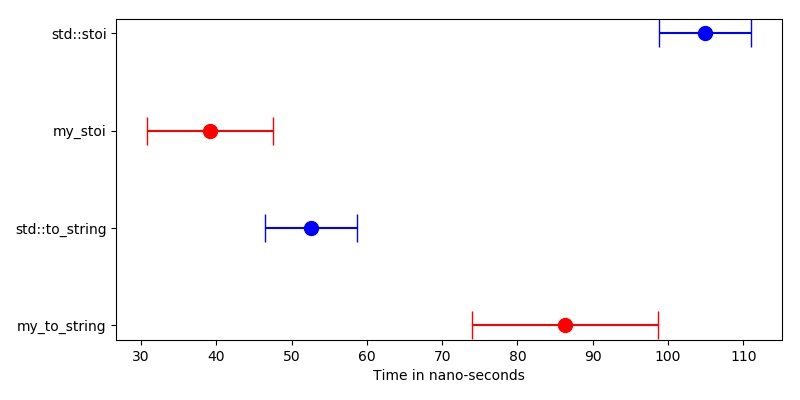
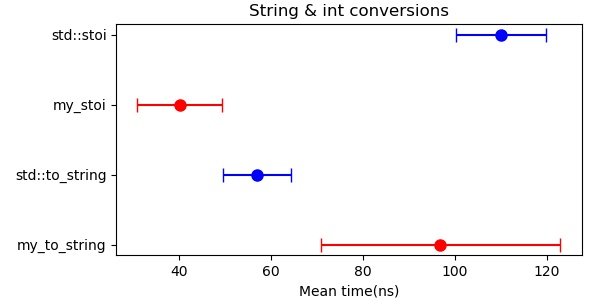
changed format for gen_img.py

Changed region(s): [[0.0, 0.0, 0.99, 0.99], [0.33, 0.54, 0.51, 0.63]]

diff --git a/gen_img.py b/gen_img.py
@@ -1,14 +1,11 @@
 import matplotlib.pyplot as plt
-import numpy as np
-import scipy.stats as stats
-import math
 import sys
 
 if len(sys.argv) < 2:
     print('Usage: gen_img.py <input csv file> <output image file>')
     sys.exit()
 
-plt.figure(figsize=(8,4))
+plt.figure(figsize=(6,3))
 file_res = open(sys.argv[1])
 
 ticks = []
@@ -23,12 +20,13 @@ for line in file_res:
     # set color depending on implementation
     color = 'blue' if 'std' in vals[0] else 'red'
 
-    plt.errorbar(mu, i, xerr=sig, fmt='o', color=color, capsize=10,
-                markersize=10)
+    plt.errorbar(mu, i, xerr=sig, fmt='o', color=color, capsize=5,
+                markersize=8)
     i += 1
 
 plt.yticks([n for n in range(i)], ticks)
 plt.tight_layout()
-plt.subplots_adjust(bottom=0.15)
-plt.xlabel('Time in nano-seconds')
+plt.subplots_adjust(bottom=0.15, top=0.92)
+plt.title('String & int conversions')
+plt.xlabel('Mean time(ns)')
 plt.savefig('images/'+sys.argv[2])

diff --git a/readme.md b/readme.md
@@ -1,17 +1,17 @@
-# my_func vs std::func
+# std vs my_func 
 
-This repo holds code for investigating if a simple or novice implementation of a given function is "faster" than the standard library functions that are available. I placed faster in quotation marks since this is only an estimation and not an exact science, this is just for fun. Each function pair that I put in a 1 v 1 battle are displayed under *Cases* below.
+This is a repo for testing the difference in speed between a simple my_func and the C++ standard library(C++17). These test are in no way complete or conclusive, it's just for fun. *my_func* implementations are really simple, with emphasis on readability. The result could be different on your machine. I plan on adding more function comparisons in the future.
 
+# :rocket: Cases
 
-All **my_func** methods are implemented with both simplicity and speed in mind, where simplicity is the more important category in my opinion. Because in a realistic senario I wouldn't spend to much time on optimizing a to_string method for example.
+## :clock1: Converting std::string to int and back
 
-# Cases
+<p align=center>
 
-## Converting std::string to int and back
+<img src="https://raw.githubusercontent.com/felrock/my_func-speed-test/main/images/to_string.jpg" />
+</p>
 
-![results](./images/to_string.jpg)
-
-# my_to_string v.s std::to_string
+### my_to_string vs std::to_string
 
 Example run:
 
@@ -23,7 +23,7 @@ Example run:
 std::string is faster for sure in this test. 
 
 
-# my_stoi v.s std::stoi
+### my_stoi vs std::stoi
 
 Example run:
 
@@ -34,14 +34,36 @@ Example run:
 
 my_stoi was faster for sure in this test.
 
+## :clock1: Converting double to string and back
 
-## Usage
+:construction:
+
+## :clock1: Count occurances
+
+:construction:
+
+# Usage
 
 Compiler:  gcc (MinGW-W64 x86_64-posix-seh, built by Brecht Sanders) 10.2.0
 
+Build with gcc
+```
+ $ gcc main.cpp -std=c++17 -o2 -o main
+```
+
 Build with CMake.
-´´´
-mkdir build && cd build
-cmake ..
-make
-´´´
+```
+ $ mkdir build && cd build
+ $ cmake ..
+ $ make
+```
+
+Running gen_img.py you will need Matplotlib
+
+```
+$ python gen_img.py int_to_string.csv int_to_string.jpg
+```
+
+# License
+
+WTFPL
